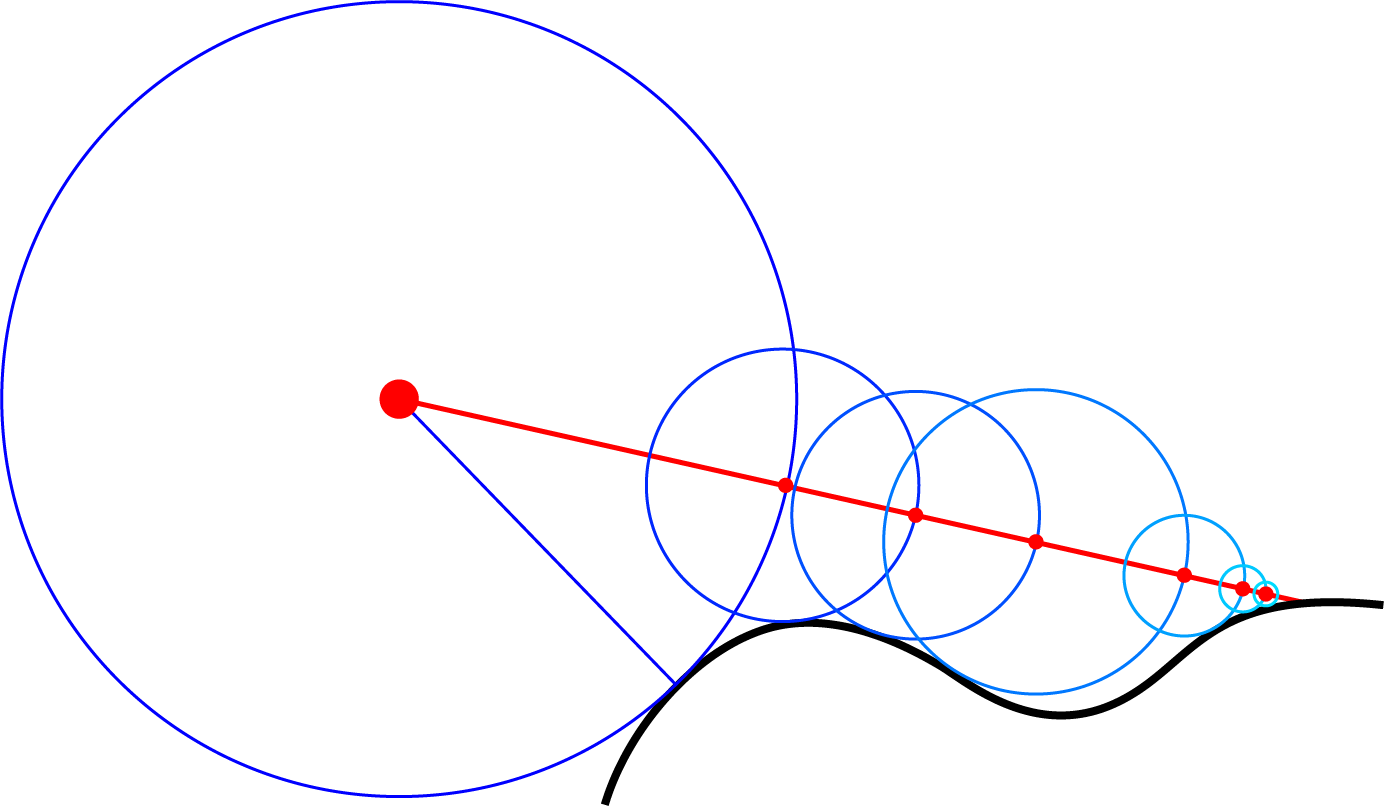
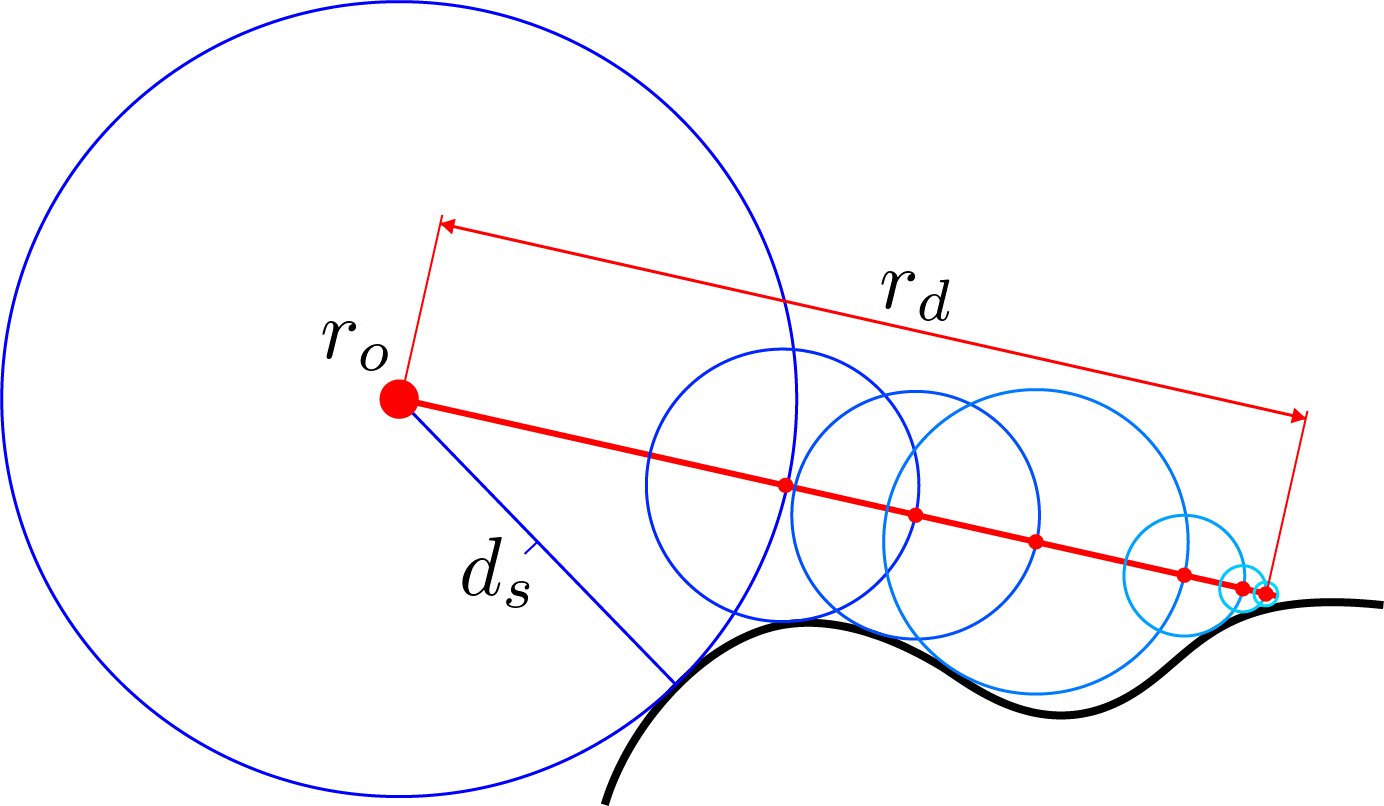
Improve raymarching diagram & discuss Polyvision
discuss pros and cons of polyvision
link aims to extensions of cross sections
improve ray marching diagram with labels of components

diff --git a/dissertation/l4proj.tex b/dissertation/l4proj.tex
@@ -5,6 +5,7 @@
 % put any additional packages here
 \usepackage{amsmath}
 \usepackage{pdfpages}
+\usepackage{float}
 
 \begin{document}
 
@@ -133,11 +134,9 @@ The 3D cross section is limited given that only a slice of the shape can be seen
 
 Through simple discussion with peers, a 3D cross section of a four dimensional object appears to be a far more intuitive concept to grasp compared against stereographic projection. 
 %
-TODO: tie in with aims to teach people (answering the questions)
-%
-given it's relative simplicity in using lower dimensional abstractions to assist in understanding higher dimensional geometry.
+Given the aims of the project, are to investigate how one may extend a visualisation of a 4D object to provide a viewer with more information in order to assist in their understanding of higher dimensional space, the 3D cross section of a four dimensional world appears very appropriate given it's relative simplicity in using lower dimensional abstractions to assist in understanding higher dimensional geometry.
 \vskip 0.5em
-An extension to a 3D cross section involves providing the viewer of the object with more information about the object they are dealing with. Several such extensions have already been explored conceptually or even fully developed.
+An extension to a 3D cross section involves providing the viewer of the object with more information about the object they are dealing with. Several such extensions have already been explored conceptually or even fully developed. 
 \vskip 0.5em
 Showing several cross sections besides one another, each offset along the \(w\) axis an increased amount is a simple means of trying to provide more information to the user about the entire shape of the object. For example: displaying several 2D circles that circularly increase and decrease in size besides one another provides a viewer with enough information to estimate that the object being displayed is likely a 3D sphere. 
 
@@ -147,17 +146,26 @@ TODO: Figure of several cross sections
 %
 By displaying the several cross sections in an ovular path, compared to a linear path, Kageyama was able to display a far greater number of cross sections, allowing for a more detailed view of the four dimensional object in its entirety.
 %
-Each cross section, as they move further away from the central slice, decreases in size. This avoids potential confusion in conveying the idea that travelling across the fourth dimension wraps around, forming a circular path.
-Scaling each cross section however, can produce some immediate confusion when first viewing an object. For example, taking several cross sections of a 4D cylinder that is extended along the \(w\) axis should produce several 3D spheres of the same size. Kageyamas visualisation will have each of these 3D spheres decrease in size such that a user could more likely interpret the shape to be a 3D cross section of a 4D sphere given it exhibits the same scaling behaviour. If a user interacts with the object using the appropriate keys they could observe the lack of change in the size of the 3D cross section and draw the correct conclusion.
+Each cross section, as they move further away from the central slice, decreases in size; in order to avoid potential confusion in conveying the idea that travelling across the fourth dimension wraps around, forming a circular path.
+%
+Scaling each cross section however, can produce some immediate confusion when first viewing an object. For example, taking several cross sections of a 4D cylinder that is extended along the \(w\) axis should produce several 3D spheres of the same size. Kageyama's visualisation will have each of these 3D spheres decrease in size such that a user could more likely interpret the shape to be a 3D cross section of a 4D sphere given it exhibits the same scaling behaviour. If a user interacts with the object using the appropriate keys they could observe the lack of change in the size of the 3D cross section and draw the correct conclusion.
 Whilst the ovular display does provide a great deal of extra information to a viewer, it is limited by its potential to be obscure when it comes to objects with similar cross sections.
+
+TODO: classify Kageyama's work
 \vskip 0.5em
 Another interesting extension which arguably provides the user with more information about an object, is being able to view said object from other angles. For example: take a cone that is extended upwards to a point. From the top, a cross section of the object will appear as a circle. However from a side on perspective, the object will appear as a triangle.
 
 TODO: Figure of multi-view
 
-\citet{matsumoto_polyvision_2019} proposed \textit{Polyvision}, a virtual reality system to view four dimensional objects from multiple angles to quickly and effectively understand the shape being interacted with.
+\textit{Polyvision}, proposed by \citet{matsumoto_polyvision_2019}, is a virtual reality system to view four dimensional objects from multiple angles to quickly and effectively understand the shape being interacted with.
+%
+\citet{matsumoto_polyvision_2019} chose to represent 4D objects as wireframes, connecting each vertex of the object by an edge. This is possible when collapsing each vertex of the 4D object to the same three dimensional slice. This is often referred to as the "shadow" of an object. 
+This allows for a user to view almost all of an object at once, in comparison to a single 3D slice, whilst offering a more intuitive understanding, although with perhaps less information, with comparison to stereographic projection. A disadvantage of a 3D wireframe shadow is with increasingly complex objects, the wireframe cells of the wireframe becomes more and difficult differentiate with the increase in the number of vertices and edges.
+The ability to view the surface of a complex object, such as a 120-cell, likely allows for easier understanding of the geometry compared to the wireframe of its shadow.
+%
+With the goal of teaching others, \citet{matsumoto_polyvision_2019} restricts interaction to that which we are used to. Translation, rotation and scaling are restricted to the third dimension, as interaction in $\mathbb{R}^3$, from another perspective in $\mathbb{R}^4$ will change the object in a potentially unexpected way. Whilst the effects of 4D manipulation can be seen in this way, \textit{Polyvision} lacks the ability to directly manipulate an object in 4D space.
 
-TODO: Limitations by matsumoto (VR is cool, doesnt use 4D rotation?, only used wireframes)
+TODO: classify Matsumoto's work
 
 \section{Building a 4D Object}
 
@@ -169,7 +177,7 @@ A mesh consists of vertices, edges and faces. A vertex being a point on the surf
 
 \subsection{Mesh Based Rendering}
 
-Both \citet{bosch_n-dimensional_2020} and \citet{tianli_4d_2018} have developed real time interactive systems which display four dimensional objects using mesh based rendering. As illustrated by \citet{tianli_4d_2018}, 4D shapes are made up of cells, similar to how a 3D mesh is made up of faces. As with a face in a 3D mesh being constructed of triangles (the most basic 2D shape), a 4D mesh is constructed of the most basic cell, a tetrahedron. A tetrahedron is made up of four triangles defined by faces, vertices and edges. The pentachoron, also known as a hyper-tetrahedron or a 5-cell, is the most primitive 4D object besides the hyper-sphere. The mesh of a pentachoron consists of 5 tetrahedral sub-meshes (cells).
+Both \citet{bosch_n-dimensional_2020} and \citet{tianli_4d_2018} have developed real time interactive systems which display four dimensional objects using mesh based rendering. As illustrated by \citet{tianli_4d_2018}, 4D shapes are made up of cells, similar to how a 3D mesh is made up of faces. As with a face in a 3D mesh being constructed of triangles (the most basic 2D shape), a 4D mesh is constructed of the most basic cell, a tetrahedron. A tetrahedron is made up of four triangles defined by faces, vertices and edges. The pentachoron, also known as a hyper-tetrahedron or a 5-cell, is the most primitive 4D object besides potentially the hyper-sphere. The mesh of a pentachoron consists of 5 tetrahedral sub-meshes (cells). A sub-mesh in this instance refers to a 3D mesh used to build a 4D object, in the same way a 2D net of faces can build a 3D shape.
 \vskip 0.5em
 Mesh based rendering allows the creation of very complex higher dimensional objects. \citet{bosch_n-dimensional_2020} built a novel game engine implementing four dimensional rigid body dynamics, as well as the rendering of a four dimensional world. 
 On the other hand, \citet{tianli_4d_2018} used the readily available Unity game engine to construct a hyper-cube and hyper-tetrahedron, demonstrating the flexibility of existing software built for two and three dimensions.
@@ -196,9 +204,9 @@ An SDF is a function that describes a signed distance to a surface relative to a
 %
 \vskip 0.5em
 Ray marching (Algorithm \ref{alg:raymarch}, Figure \ref{fig:raymarch}) is the processes of calculating the colour of each pixel on a screen by casting a ray from an origin point to mathematically defined geometric surface. Given an origin point and a direction, the algorithm takes the distance to the nearest surface and then marches forward by that distance to map out the surface detail. \citep{the_art_of_code_ray_2018}.
-
+\vskip 0.5em
 % Ray marching Diagrams
-\begin{figure}
+\begin{figure}[H]
   \centering
   \begin{subfigure}[b]{0.45\textwidth}
       \includegraphics[width=\textwidth]{images/raymarching/raymarch_ai.png}
@@ -216,7 +224,7 @@ Ray marching (Algorithm \ref{alg:raymarch}, Figure \ref{fig:raymarch}) is the pr
   \subref{fig:rmalg} shows the process of a single ray marching towards a surface, given a an origin point and a direction as described in Algorithm \ref{alg:raymarch}.
   }\label{fig:raymarch}
 \end{figure}
-
+%
 % Ray marching Algorithm
 \begin{algorithm}
   \DontPrintSemicolon
@@ -248,7 +256,7 @@ Ray marching (Algorithm \ref{alg:raymarch}, Figure \ref{fig:raymarch}) is the pr
   }
 \caption{The ray marching algorithm}\label{alg:raymarch}
 \end{algorithm}
-
+%
 \vskip 0.5em
 Whilst less intuitive and approachable than mesh based rendering, there are active communities which strive to build interesting or complex geometry using these mathematical expressions in conjunction with ray marching. \textit{Shadertoy}, developed by \citet{quilez_shadertoy_2013}, is a web based platform that allows anyone to create and experiment with shader based geometry.
 \vskip 0.5em
